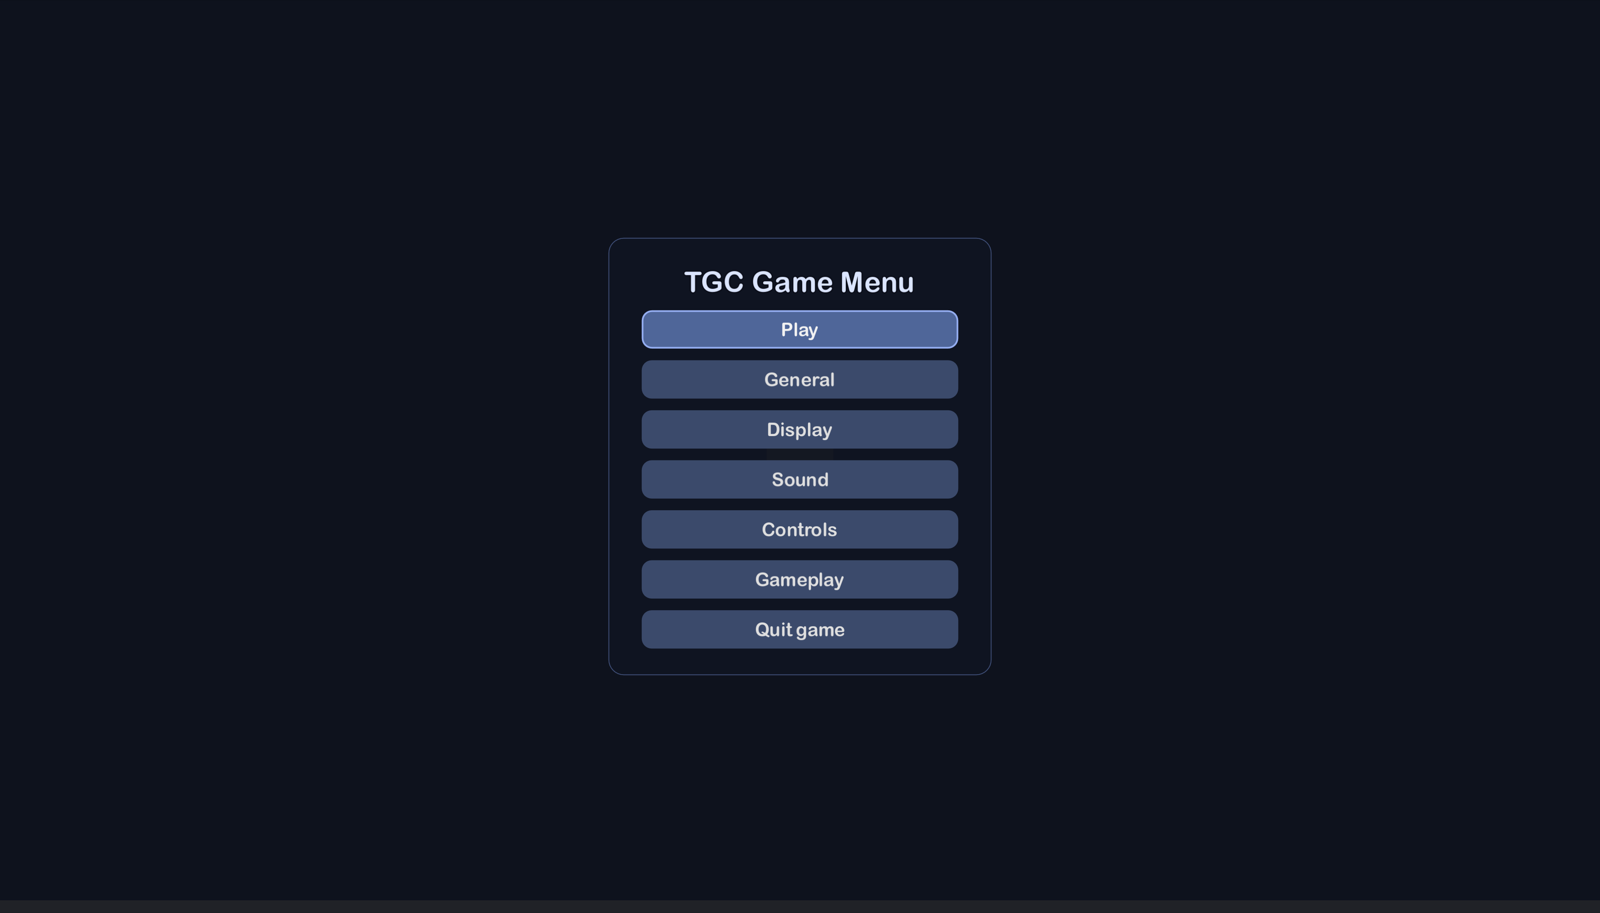
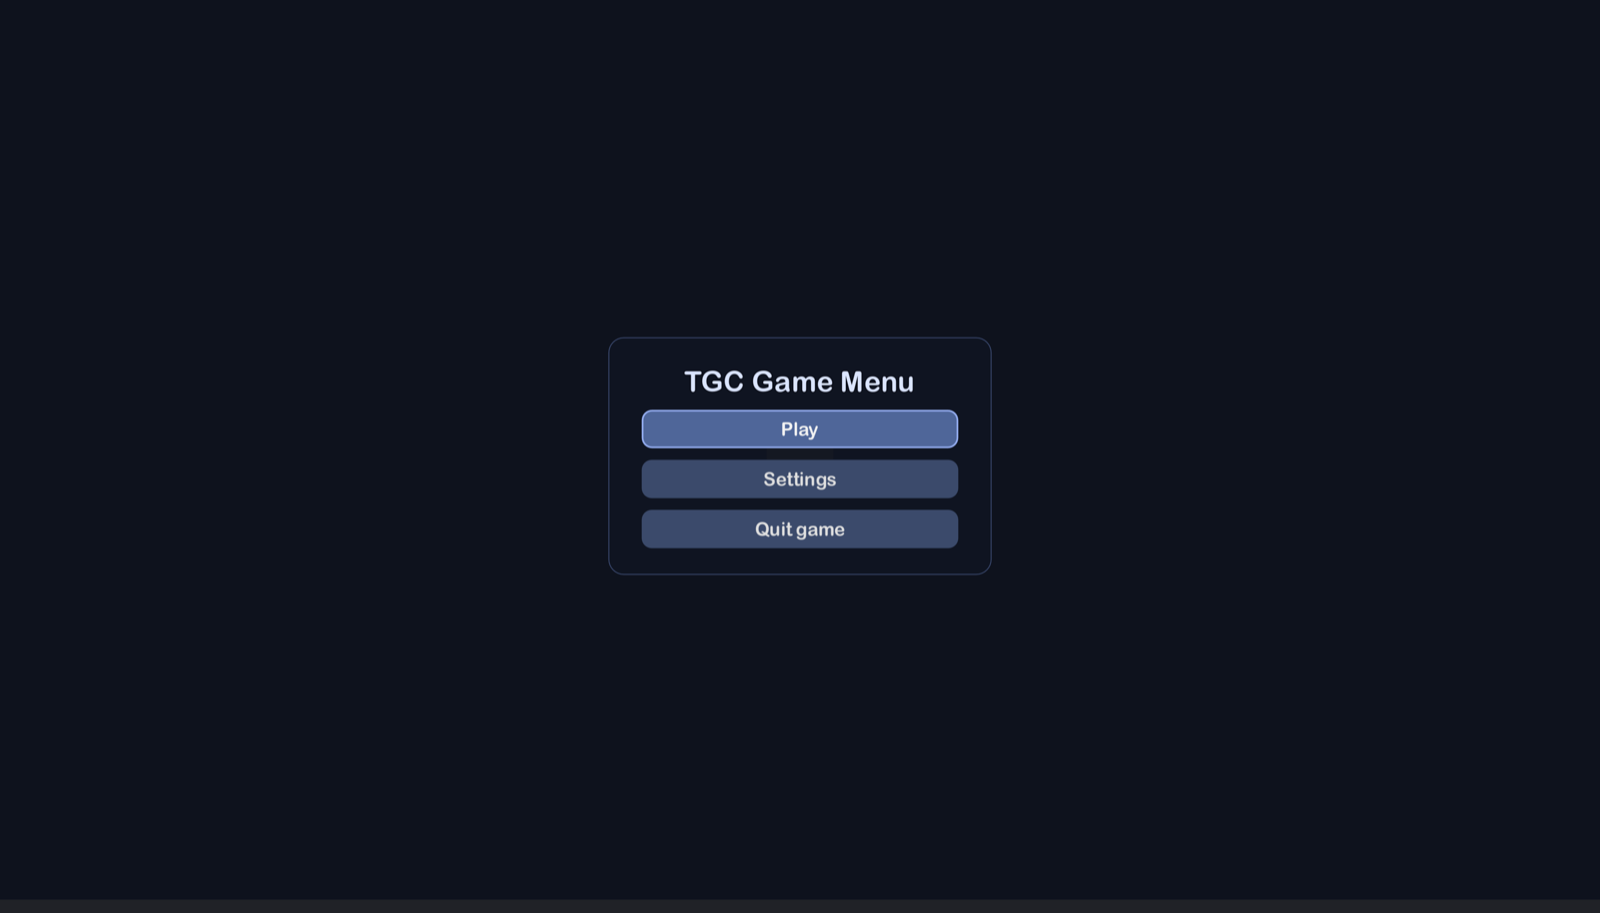
A Settings sub-menu: the root keeps Play, Settings, Main menu, Quit
The pages move under Settings. Going back climbs one level at a time (page,
sub-menu, root) and gives the focus back to the button left, so a gamepad
never loses its place; the menu reopens at its root. Without a single page,
Settings hides. TgcGameMenu.SETTINGS is a reserved page id. Bench: 136 checks.

Claude-Session: https://claude.ai/code/session_011pXomckfdzKqWXywQRvux5

Changed region(s): [[0.375, 0.276, 0.625, 0.736]]

diff --git a/addons/tgc_game_menu/README.md b/addons/tgc_game_menu/README.md
@@ -3,8 +3,11 @@
 A main menu and a pause menu for Godot 4, with the settings players expect, configured
 from a single resource.
 
-- **One menu, two faces.** At start, the game's title and *Play*. During a game, *Paused*,
-  *Resume*, *New game* and *Main menu*. *Quit* hides itself in a web build.
+- **One menu, two faces.** At start, the game's title, *Play*, *Settings* and *Quit*.
+  During a game, *Paused*, *Resume*, *New game*, *Settings*, *Main menu* and *Quit*. *Quit*
+  hides itself in a web build.
+- **A Settings sub-menu** lists the pages below. *Back*, Esc or the gamepad's B goes up one
+  level at a time — page, sub-menu, root — and the focus comes back to the button you left.
 - **General**: the language, offered from **your game's** translations, each named in its
   own language, with *System language* (which reads the browser's interface language on
   the web, not just its first preferred one).
@@ -18,7 +21,7 @@ from a single resource.
   action is taken from the one that had it. The pause always keeps a keyboard key. Keys are
   named as they are **engraved** on the player's keyboard (Z on an AZERTY for the W
   position), gamepad buttons for both families of pads ("A / Cross").
-- **Your own pages** after the built-in ones, each with its button.
+- **Your own pages** after the built-in ones, each with its button in the sub-menu.
 - **Settings saved at each change and read back without trusting the file**: wrong types,
   values off the list, unreadable inputs all fall back on the defaults instead of crashing.
   Inputs are stored as readable text (`t:87`, `b:0`, `a:1:+`), never as serialised objects.
@@ -68,7 +71,7 @@ the Inspector, and assign it to the session's `config`. Everything has a working
 | | `pause_action` | The action that opens and closes the pause menu (`game_pause`). |
 | | `theme` | The menu's theme. Empty: your project's theme. |
 | | `menu_scene` | Your own copy of `menu/tgc_game_menu.tscn`, to restyle the root. |
-| Pages | `show_*_page` | Hide a built-in page. A page with nothing to show hides itself (General with a single language, Sound with no bus). |
+| Pages | `show_*_page` | Hide a built-in page. A page with nothing to show hides itself (General with a single language, Sound with no bus); with no page at all, *Settings* hides too. |
 | | `extra_pages` | Your own pages (see below). |
 | Languages | `languages` | The languages offered. Empty: those of your translations. |
 | Display | `show_*` | Hide a row (MSAA and render scale mean nothing to a 2D game). |
@@ -97,7 +100,8 @@ and redo it on `controls_changed` and on `NOTIFICATION_TRANSLATION_CHANGED`.
 ## Your own page
 
 A scene whose root extends **TgcMenuPage**, with a unique `page_id` and a `title` (a
-translation key), whose *Back* button emits `closed`. List it in `extra_pages`. The page
+translation key), whose *Back* button emits `closed` (back up to the Settings sub-menu).
+List it in `extra_pages`; its button appears in the sub-menu, after the built-in pages'. The page
 shows your settings and changes them; your game applies and saves them. Give it your
 settings once the session is ready:
 

diff --git a/README.md b/README.md
@@ -5,19 +5,18 @@ display, volumes per bus, and keyboard, mouse and gamepad controls remapped on s
 Settings are saved at each change and read back without trusting the file. English,
 French, German and Spanish.
 
-![Main menu](screenshots/en_01_main_menu.png)
-
 | | |
 | --- | --- |
-| ![Controls](screenshots/en_05_controls.png) | ![Display](screenshots/en_03_display.png) |
-| ![Pause](screenshots/en_08_pause.png) | ![Commandes](screenshots/fr_05_controls.png) |
+| ![Main menu](screenshots/en_01_main_menu.png) | ![Settings](screenshots/en_02_settings.png) |
+| ![Controls](screenshots/en_06_controls.png) | ![Display](screenshots/en_04_display.png) |
+| ![Pause](screenshots/en_09_pause.png) | ![Commandes](screenshots/fr_06_controls.png) |
 
 ## What it does
 
 - **One menu, two faces**: the main menu at start, the pause menu during a game (Esc,
   Start, or the window losing the focus).
-- **General, Display, Sound, Controls** pages, each row and each page optional, plus **your
-  own pages** after them.
+- **A Settings sub-menu** with the General, Display, Sound and Controls pages, each row and
+  each page optional, plus **your own pages** after them.
 - **Remapping that respects players**: keyboard-and-mouse and gamepad columns that never
   touch each other, a key given to an action taken from the one that had it, a pause that
   always keeps a key, keys named as engraved on the player's keyboard (AZERTY, QWERTZ…).

diff --git a/CLAUDE.md b/CLAUDE.md
@@ -66,6 +66,9 @@ What it has already decided here, and which must not be quietly undone:
   German.
 - **Display defaults are what the project declares** (window mode and size, vsync, max fps,
   3D scale, 3D MSAA). The config decides what is shown and offered, not the defaults.
+- **Three levels: the root, the Settings sub-menu, the pages.** Going back climbs one level
+  at a time and gives the focus back to the button one came from: a gamepad never loses its
+  place. `TgcGameMenu.SETTINGS` is a reserved page id.
 - **§11 — YAGNI.** Four built-in pages and an extension point (`TgcMenuPage`,
   `extra_pages`). A game-specific setting is the game's: its own Resource, its own page, its
   own file.
@@ -130,8 +133,8 @@ chosen among `captures/`.
 
 ## Where this stands
 
-Version **1.0.0**, the first: extracted, checked (bench: 128 checks), installed back into the
-template (its own bench: 48 checks). The GitHub repository is private like the other add-ons.
+Version **1.0.0**, the first: extracted, checked (bench: 136 checks), installed back into the
+template (its own bench: 49 checks). The GitHub repository is private like the other add-ons.
 Not yet submitted to the Asset Store: making the repository public and filling in the store
 page (`README.md`, `screenshots/`, `screenshots/store_icon.png`, the mandatory AI-usage
 disclosure) is the author's call. The French translation of the user documentation is to be

diff --git a/CHANGELOG.md b/CHANGELOG.md
@@ -7,6 +7,7 @@ the settings and the remappable controls had been written and checked first.
 
 - `TgcMenuSession`: the pause, the main menu and the pause menu, the player's settings.
 - `TgcMenuConfig`: everything a game decides, in one resource.
-- Pages: General (language), Display, Sound (one slider per bus), Controls (keyboard and
-  mouse, gamepad), and the game's own pages (`TgcMenuPage`).
+- A Settings sub-menu with the pages: General (language), Display, Sound (one slider per
+  bus), Controls (keyboard and mouse, gamepad), and the game's own pages (`TgcMenuPage`).
+  Going back climbs one level at a time and gives the focus back to the button left.
 - Catalogue in English, French, German and Spanish; the languages offered are the game's.
